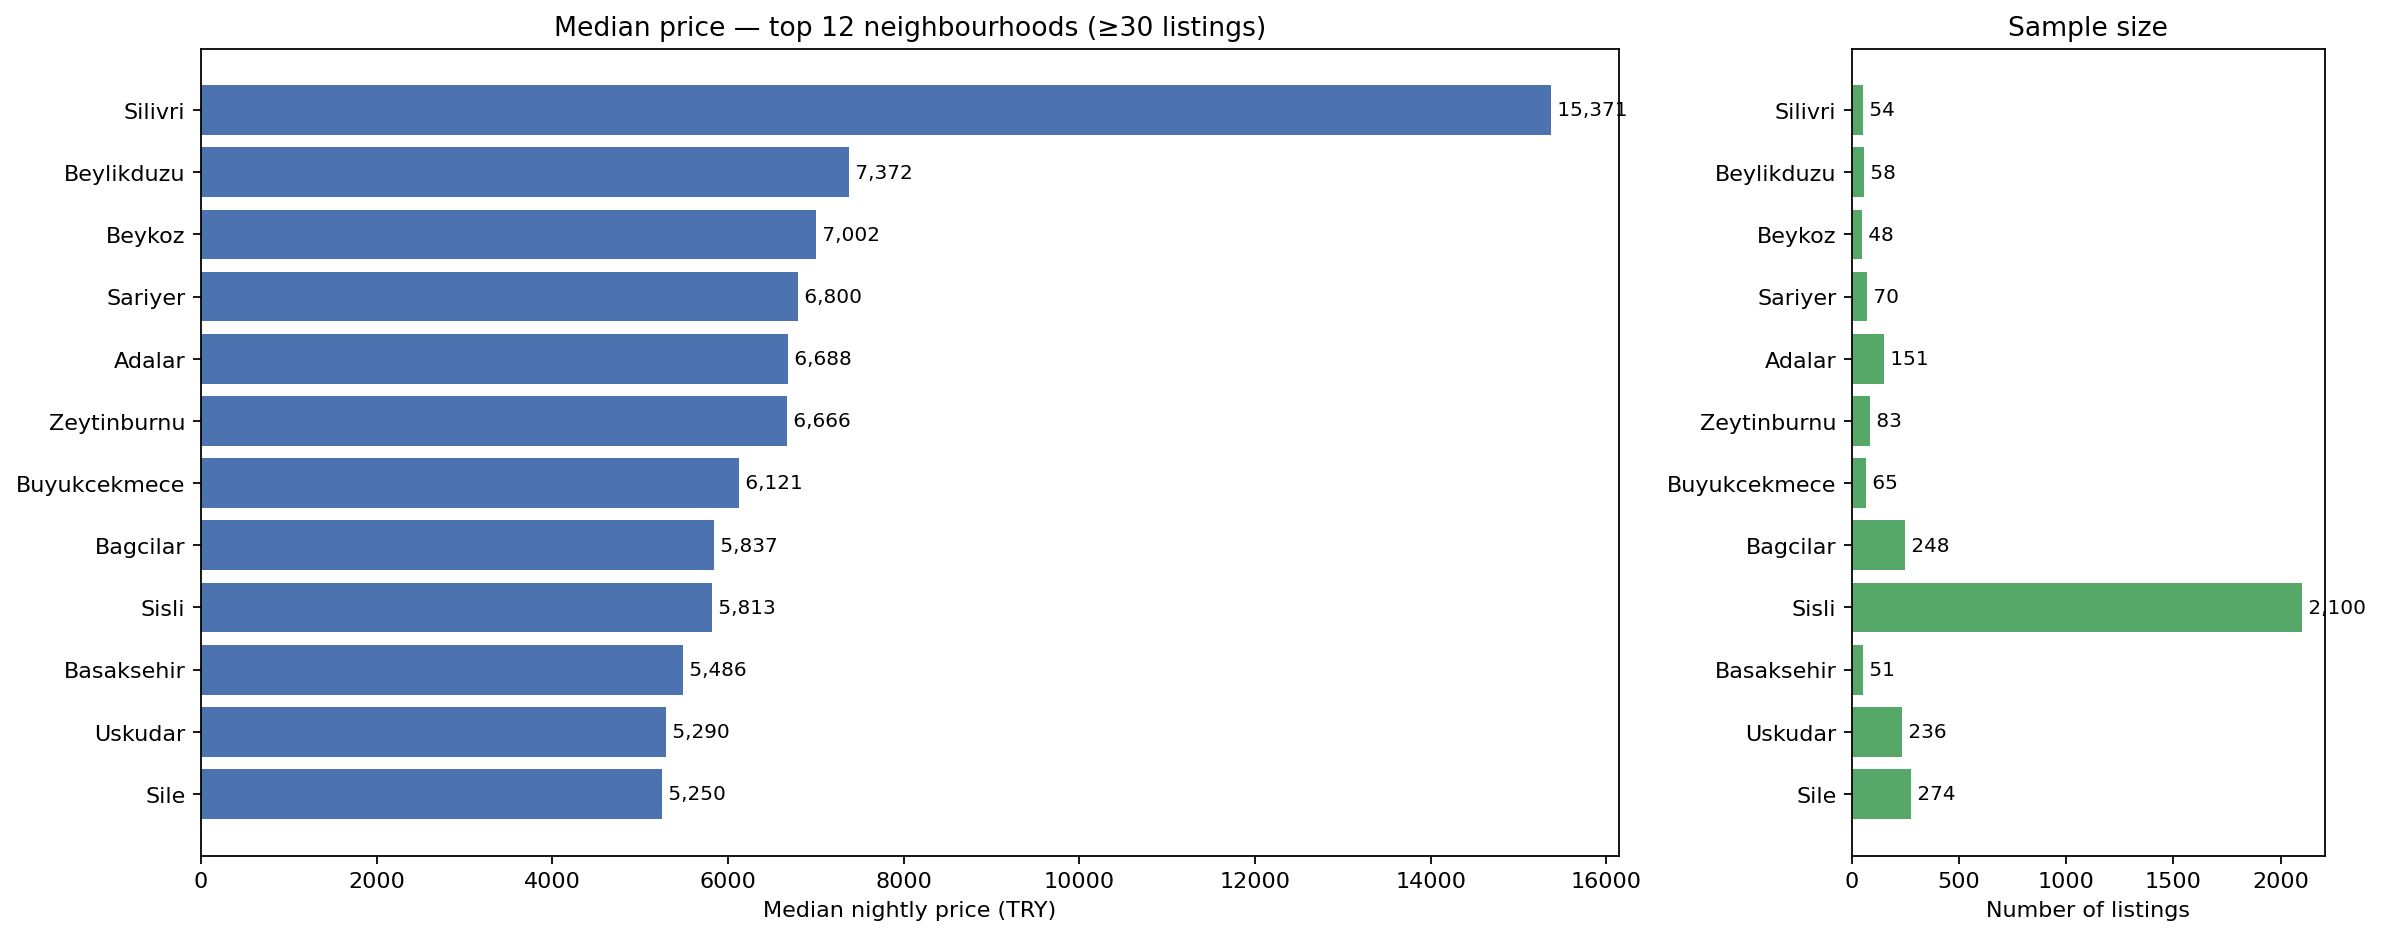
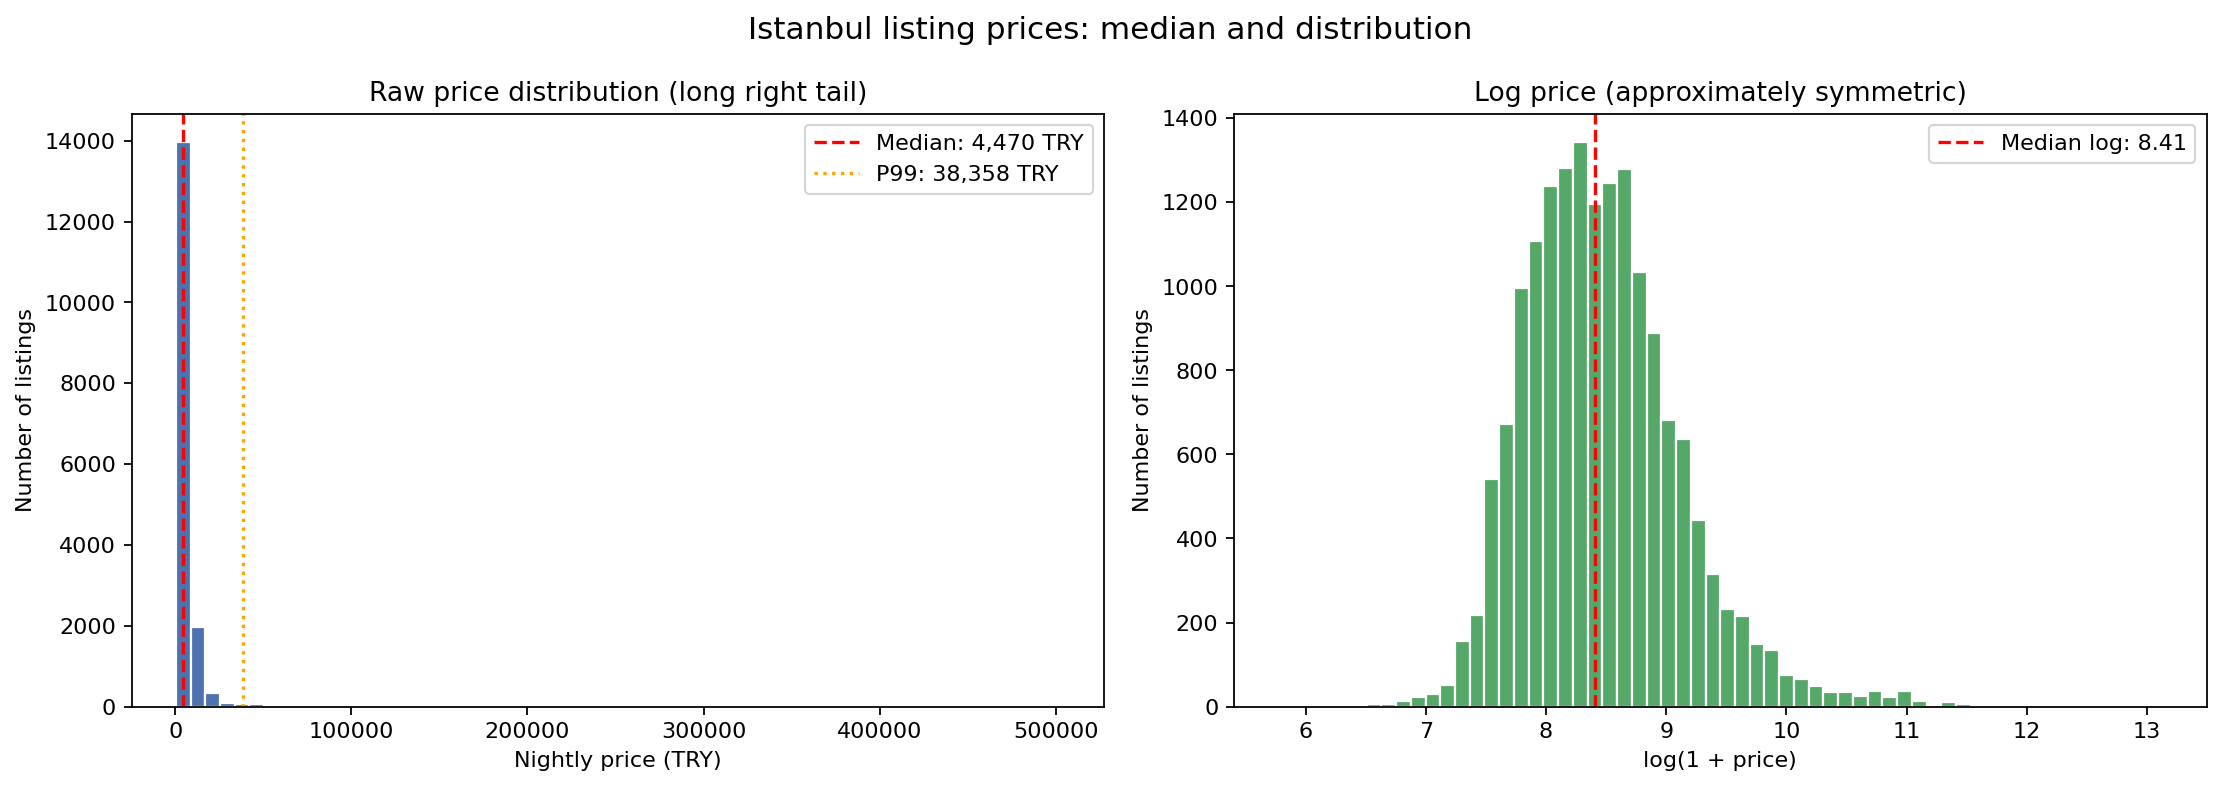
feat(eda): add price distribution with raw and log scales, feat(eda): add neighborhood price comparison with sample-size filter, feat(eda): add geographic price scatter with sampled alpha-blended points

diff --git a/data/README.md b/data/README.md
@@ -46,3 +46,14 @@ Silivri appears as an extreme outlier (15,371 TRY) but has a very small sample s
 
 **Limitation:** 
 Neighborhood *name* is a proxy — it doesn't capture block-level variation (e.g., sea-view vs. interior streets within the same neighborhood). It also acts as a partial proxy for property type (e.g., Silivri = villas), so a future model should include both.
+
+## Finding 3 — Prices concentrate geographically around the central Bosphorus and coastal corridors
+
+**Evidence:** See `reports/eda/geographic_prices.png`. The high-price listings (yellow/light orange dots) cluster heavily around the central Bosphorus-adjacent neighborhoods and the western coastline, while lower-priced listings (darker purple dots) spread further inland and to the outer districts.
+
+**Interpretation:** 
+Location captures information beyond "which neighborhood it's in" — it's the actual distance to the sea, the city center, and major transport corridors. The visual clustering confirms that latitude and longitude (and the engineered `distance_to_center_km` feature) will be highly predictive for price modeling.
+
+**Limitation:** 
+Listing coordinates are approximate (Airbnb intentionally jitters them for privacy). Therefore, we can observe macro-level clusters but cannot claim block-level precision (e.g., we cannot distinguish a sea-view apartment from an interior street apartment if they share the same jittered coordinate).
+
